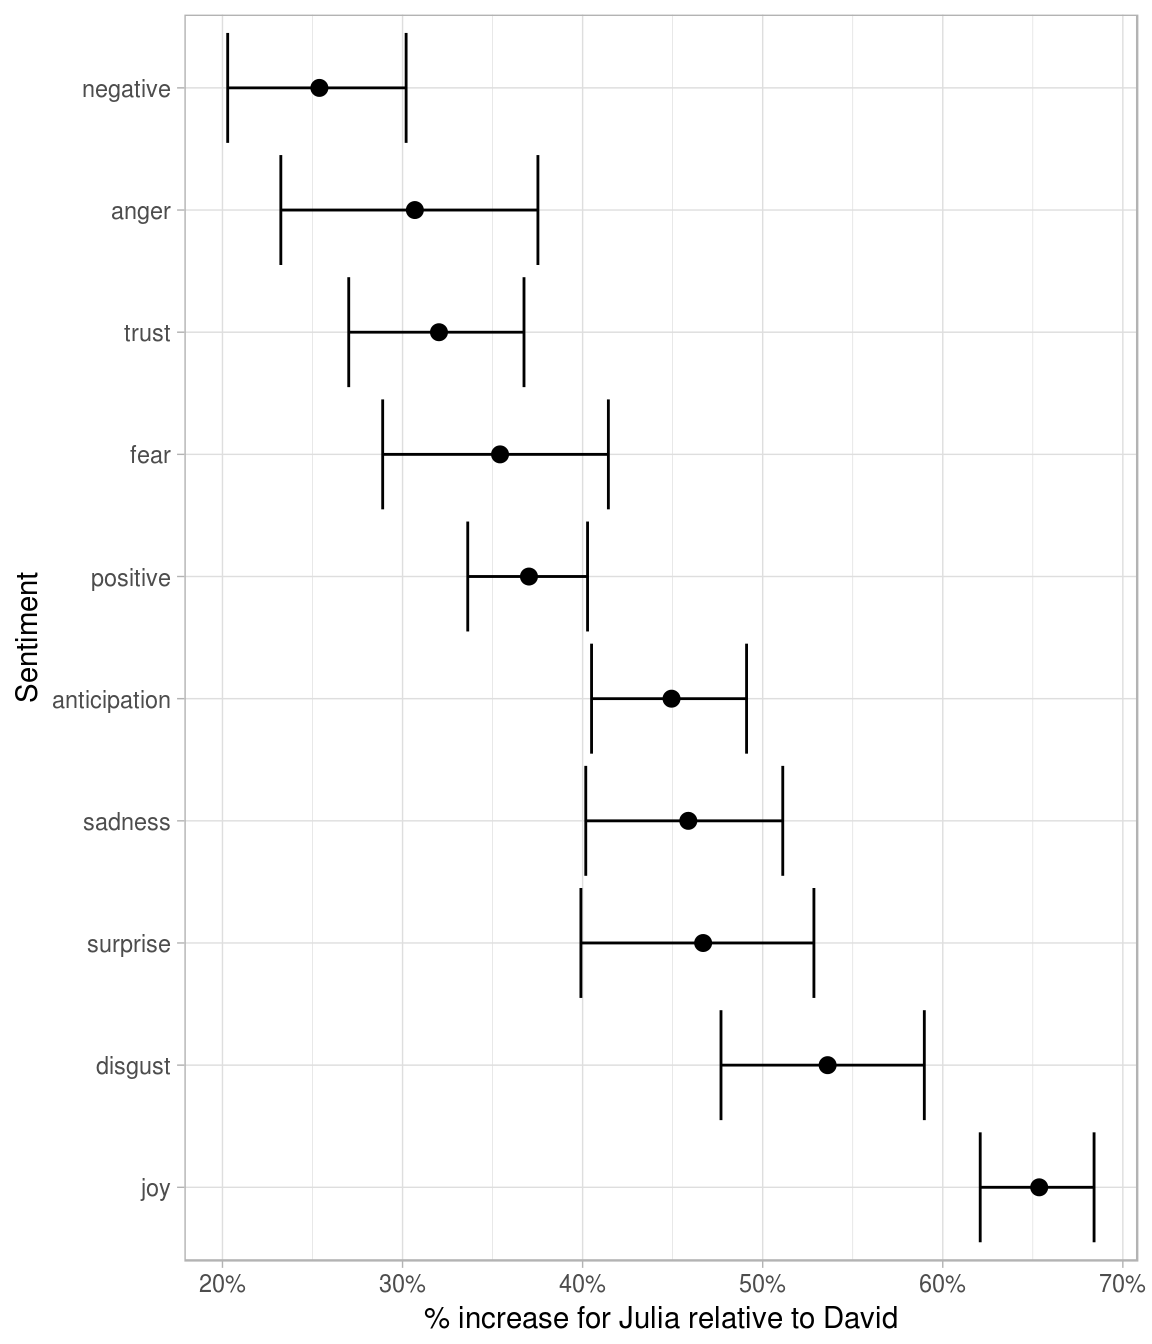
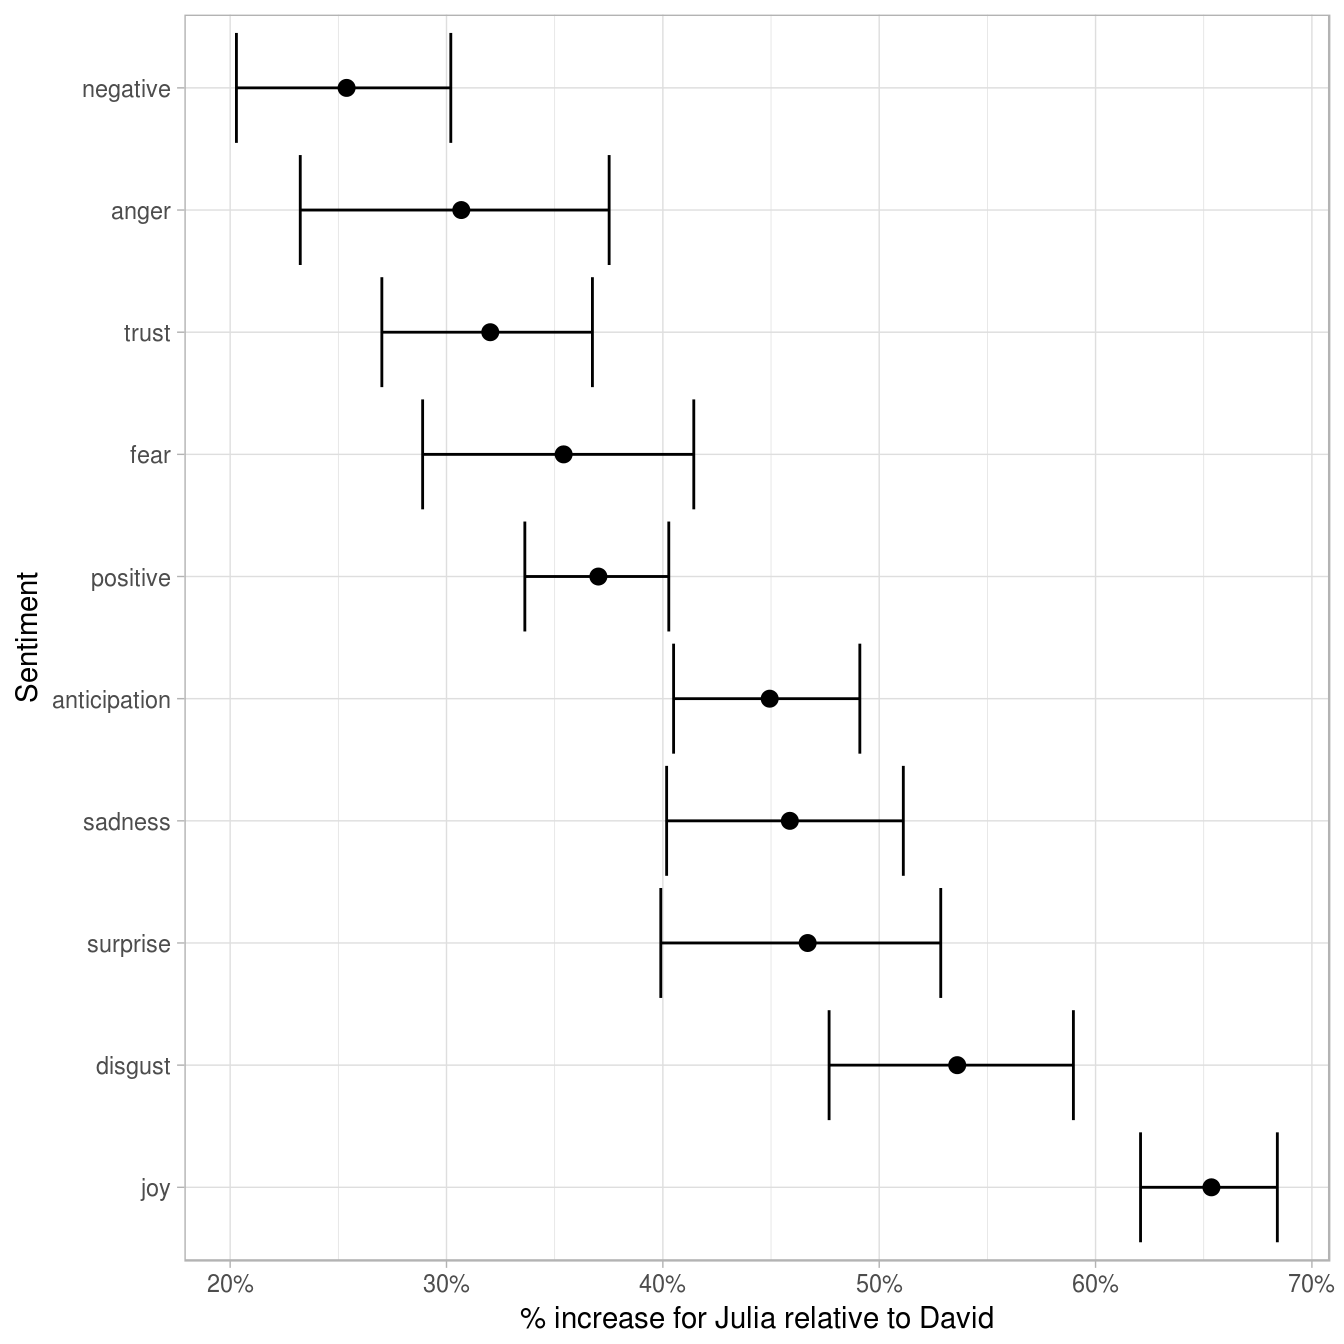
Updating book (158)

diff --git a/twitter.html b/twitter.html
@@ -458,7 +458,7 @@ sentiment_differences %&gt;%
 <span class="st">  </span><span class="kw">scale_x_continuous</span>(<span class="dt">labels =</span> <span class="kw">percent_format</span>()) +
 <span class="st">  </span><span class="kw">labs</span>(<span class="dt">x =</span> <span class="st">&quot;% increase for Julia relative to David&quot;</span>,
        <span class="dt">y =</span> <span class="st">&quot;Sentiment&quot;</span>)</code></pre></div>
-<p><img src="08-tweet-archives_files/figure-html/plot_unnest-1.png" width="576" /></p>
+<p><img src="08-tweet-archives_files/figure-html/plot_unnest-1.png" width="672" /></p>
 <p>We see here that Julia uses about 65% more words related to joy and about 55% more words related to disgust than David; in fact, she uses more of <em>all</em> words associated with sentiments, both negative and positive. David’s tweets are more neutral in sentiment while Julia’s involve more dramatic word choices that communicate more emotions. This, again, reflects the different ways we have used our Twitter accounts.</p>
 </div>
 <div id="words-that-contribute-to-sentiment-in-tweets" class="section level2">
@@ -479,7 +479,7 @@ sentiment_differences %&gt;%
 <span class="st">  </span><span class="kw">labs</span>(<span class="dt">y =</span> <span class="st">&quot;log odds ratio (David/Julia)&quot;</span>,
        <span class="dt">x =</span> <span class="ot">NULL</span>) +
 <span class="st">  </span><span class="kw">scale_fill_discrete</span>(<span class="dt">name =</span> <span class="st">&quot;&quot;</span>, <span class="dt">labels =</span> <span class="kw">c</span>(<span class="st">&quot;David&quot;</span>, <span class="st">&quot;Julia&quot;</span>))</code></pre></div>
-<p><img src="08-tweet-archives_files/figure-html/plotsentiments-1.png" width="672" /></p>
+<p><img src="08-tweet-archives_files/figure-html/plotsentiments-1.png" width="768" /></p>
 <p>We see here that Julia’s tweets have such a higher joy score because she has tweeted about things like birthdays, babies, and things that are delicious and sweet (probably sweet babies even!). Her disgust score is higher because she has tweeted about pregnancy, diapers, and being sick with stomach bugs. We see that there are some misidentifications visible in this plot; David’s only joy word should actually be Excel, the Microsoft product (not excel, the verb) and he uses “wrangling” in the sense of “data wrangling”, which is not fraught with disgust, anger, or fear (or is it?!). These misidentifications due to domain-specific word use mean that the difference between Julia and David for joy, digust, and some others should actually be even larger.</p>
 </div>
 <div id="more-favorites-or-retweets" class="section level2">

diff --git a/08-tweet-archives.md b/08-tweet-archives.md
@@ -342,7 +342,7 @@ sentiment_differences %>%
        y = "Sentiment")
 ```
 
-<img src="08-tweet-archives_files/figure-html/plot_unnest-1.png" width="576" />
+<img src="08-tweet-archives_files/figure-html/plot_unnest-1.png" width="672" />
 
 We see here that Julia uses about 65% more words related to joy and about 55% more words related to disgust than David; in fact, she uses more of *all* words associated with sentiments, both negative and positive. David's tweets are more neutral in sentiment while Julia's involve more dramatic word choices that communicate more emotions. This, again, reflects the different ways we have used our Twitter accounts.
 
@@ -369,7 +369,7 @@ word_ratios %>%
   scale_fill_discrete(name = "", labels = c("David", "Julia"))
 ```
 
-<img src="08-tweet-archives_files/figure-html/plotsentiments-1.png" width="672" />
+<img src="08-tweet-archives_files/figure-html/plotsentiments-1.png" width="768" />
 
 We see here that Julia's tweets have such a higher joy score because she has tweeted about things like birthdays, babies, and things that are delicious and sweet (probably sweet babies even!). Her disgust score is higher because she has tweeted about pregnancy, diapers, and being sick with stomach bugs. We see that there are some misidentifications visible in this plot; David's only joy word should actually be Excel, the Microsoft product (not excel, the verb) and he uses "wrangling" in the sense of "data wrangling", which is not fraught with disgust, anger, or fear (or is it?!). These misidentifications due to domain-specific word use mean that the difference between Julia and David for joy, digust, and some others should actually be even larger.
 
